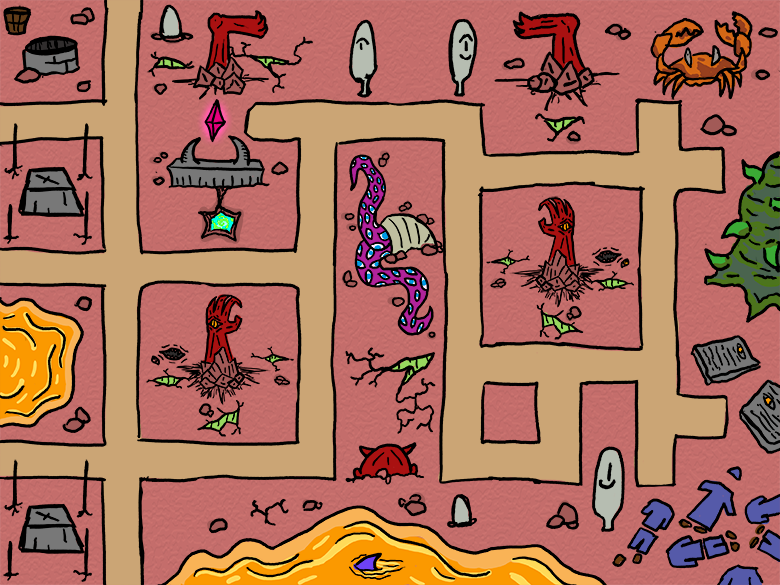
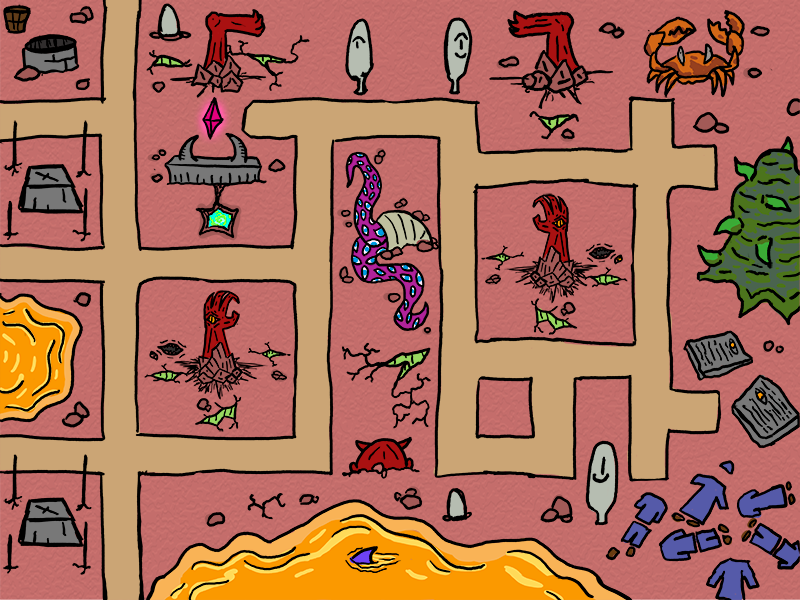
Fixed Demonic Map to match dimensions, fixed multi gum altar issue

diff --git a/js/listMaps.js b/js/listMaps.js
@@ -3,8 +3,7 @@ var mapList =[
 	{"name":"mapPencil","rows":17,"cols":12,"map":[[[0,0,0,0,0,0,0,0,0,0,0,0],[0,0,0,0,0,0,0,0,0,0,0,0],[0,0,0,4,0,0,0,4,0,0,0,0],[0,2,2,2,2,2,2,2,2,2,2,0],[0,2,4,0,0,0,0,0,0,4,2,0],[4,2,0,0,0,0,0,0,0,0,2,0],[0,2,0,0,0,1,0,0,0,0,2,0],[0,2,0,0,0,2,0,0,0,0,2,0],[0,2,0,0,3,2,0,0,0,0,2,0],[0,5,0,0,0,2,0,0,0,0,2,0],[0,0,0,0,0,2,0,0,0,0,2,0],[0,0,0,0,0,2,4,0,0,4,2,0],[0,0,0,0,0,2,2,2,2,2,2,0],[0,0,0,0,0,0,0,0,0,0,0,0],[0,0,0,0,0,0,0,0,0,0,0,0],[0,0,0,0,0,0,0,0,0,0,0,0],[0,0,0,0,0,0,0,0,0,0,0,0]],false,false,false,false,false,false,false]},
 	{"name":"mapDrawnLand","rows":16,"cols":13,"map":[[[0,0,0,0,0,0,0,0,0,0,0,0,0],[0,0,0,0,0,0,0,0,0,0,0,0,0],[0,0,0,0,0,0,0,0,0,0,0,0,0],[0,0,0,0,0,0,1,0,0,0,0,0,0],[0,0,0,0,0,0,2,0,0,0,0,0,0],[0,0,0,0,0,0,2,0,0,0,0,0,0],[0,0,0,0,0,0,2,0,3,2,2,0,0],[0,0,0,0,0,0,2,0,0,0,2,0,0],[0,0,0,2,2,2,2,0,0,0,2,0,0],[0,0,0,2,4,0,4,0,4,4,4,0,0],[0,0,0,2,2,2,2,2,4,4,4,0,0],[0,0,0,0,0,5,0,0,4,4,4,0,0],[0,0,0,0,0,0,0,0,4,4,4,0,0],[0,0,0,0,0,0,0,0,0,0,0,0,0],[0,0,0,0,0,0,0,0,0,0,0,0,0],[0,0,0,0,0,0,0,0,0,0,0,0,0]],false,false,false,false,false,false,false]},	
 	{"name":"bigMapTest","rows":16,"cols":13,"map":[[[0,0,0,0,0,0,0,0,0,0,0,0,0],[0,0,0,0,0,0,0,0,0,0,0,0,0],[0,0,0,0,0,0,0,0,0,0,0,0,0],[0,0,0,0,0,0,1,0,0,0,0,0,0],[0,0,0,0,0,0,2,0,0,0,0,0,0],[0,0,0,0,0,0,2,0,0,0,0,0,0],[0,0,0,0,0,0,2,0,3,2,2,0,0],[0,0,0,0,0,0,2,0,0,0,2,0,0],[0,0,0,2,2,2,2,0,0,0,2,0,0],[0,0,0,2,4,0,4,0,4,4,4,0,0],[0,0,0,2,2,2,2,2,4,4,4,0,0],[0,0,0,0,0,5,0,0,4,4,4,0,0],[0,0,0,0,0,0,0,0,4,4,4,0,0],[0,0,0,0,0,0,0,0,0,0,0,0,0],[0,0,0,0,0,0,0,0,0,0,0,0,0],[0,0,0,0,0,0,0,0,0,0,0,0,0]],false,false,false,false,false,false,false]},	
-	{"name":"Demonic Map","rows":16,"cols":12,"map":[[[0,0,0,0,0,0,0,0,0,0,0,0],[0,0,0,0,0,0,0,0,0,0,0,0],[1,2,2,5,2,2,0,0,0,0,0,0],[0,0,4,0,4,2,4,0,4,0,4,0],[0,0,0,0,0,5,0,0,0,0,0,0],[0,0,5,0,4,2,4,0,4,0,0,0],[0,4,2,2,5,2,0,0,0,0,0,0],[0,0,2,0,0,0,4,0,4,0,0,0],[0,4,5,4,0,0,0,0,0,0,0,0],[0,0,2,2,0,0,0,0,0,0,0,0],[0,0,4,2,4,0,4,0,4,0,4,0],[0,0,0,5,0,0,0,0,0,0,0,0],[0,0,4,2,4,0,4,0,4,0,0,0],[0,0,3,2,0,0,0,0,0,0,0,0],[0,0,0,0,4,0,4,0,0,0,0,0],[0,0,0,0,0,0,0,0,0,0,0,0]],[[0,0,1,0,0,0,0,0,0,0,0,0],[0,0,2,0,0,0,0,0,0,0,0,0],[0,0,2,5,2,2,0,0,0,0,0,0],[0,0,0,0,0,2,0,0,0,0,0,0],[0,0,0,0,0,5,0,0,0,0,0,0],[0,0,5,0,0,2,0,0,0,0,0,0],[0,0,2,2,5,2,0,0,0,0,0,0],[0,0,2,0,0,0,0,0,0,0,0,0],[0,0,5,0,0,0,0,0,0,0,0,0],[0,0,2,2,0,0,0,0,0,0,0,0],[0,0,0,2,0,0,0,0,0,0,0,0],[0,0,0,5,0,0,0,0,0,0,0,0],[0,0,0,2,0,0,0,0,0,0,0,0],[0,0,0,2,0,0,0,0,0,0,0,0],[0,0,0,3,0,0,0,0,0,0,0,0],[0,0,0,0,0,0,0,0,0,0,0,0]],[[0,0,0,0,0,1,0,0,0,0,0,0],[0,0,0,0,0,2,0,0,0,0,0,0],[0,0,0,0,0,2,2,5,2,2,0,0],[0,0,0,0,0,0,0,0,0,2,0,0],[0,0,0,0,0,0,0,0,0,5,0,0],[0,0,0,0,0,0,0,0,0,2,0,0],[0,0,2,2,5,2,2,5,2,2,0,0],[0,0,2,0,0,0,0,0,0,0,0,0],[0,0,5,0,0,0,0,0,0,0,0,0],[0,0,2,2,0,0,0,0,0,0,0,0],[0,0,0,2,0,0,0,0,0,0,0,0],[0,0,0,5,0,0,0,0,0,0,0,0],[0,0,0,2,0,0,0,0,0,0,0,0],[0,0,0,2,2,5,2,2,2,0,0,0],[0,0,0,0,0,0,0,0,3,0,0,0],[0,0,0,0,0,0,0,0,0,0,0,0]],[[0,0,0,0,0,0,0,0,0,1,0,0],[0,0,0,0,0,0,0,0,0,2,0,0],[0,0,0,0,0,0,0,0,0,2,0,0],[0,0,0,0,0,0,0,0,0,2,0,0],[0,0,0,0,0,0,0,0,0,5,0,0],[0,0,0,0,0,0,0,0,0,2,0,0],[0,0,2,2,5,2,2,5,2,2,0,0],[0,0,2,0,0,0,0,0,0,0,0,0],[0,0,5,0,0,0,0,0,0,0,0,0],[0,0,2,2,2,5,2,2,2,2,0,0],[0,0,0,0,0,0,0,5,0,5,0,0],[0,0,0,0,0,0,0,2,2,2,0,0],[0,0,0,0,0,0,0,5,0,0,0,0],[0,0,0,2,2,5,2,2,0,0,0,0],[0,0,0,3,0,0,0,0,0,0,0,0],[0,0,0,0,0,0,0,0,0,0,0,0]],[[0,0,0,0,0,0,0,0,0,0,0,0],[0,0,0,0,0,0,0,0,0,0,0,0],[0,0,0,0,0,0,0,0,0,2,2,1],[0,0,0,0,0,0,0,0,0,2,0,0],[0,0,0,0,0,0,0,0,0,5,0,0],[0,0,0,0,0,0,0,0,0,2,0,0],[0,0,2,2,5,2,2,5,2,2,0,0],[0,0,2,0,0,0,0,0,0,0,0,0],[0,0,5,0,0,0,0,0,0,0,0,0],[0,0,2,2,2,5,2,2,2,2,0,0],[0,0,0,0,0,0,0,5,0,5,0,0],[0,0,0,0,0,0,0,2,2,2,0,0],[0,0,0,0,0,0,0,5,0,0,0,0],[0,0,0,0,0,0,0,2,2,3,0,0],[0,0,0,0,0,0,0,0,0,0,0,0],[0,0,0,0,0,0,0,0,0,0,0,0]],false,false,false]},
-	
+	{"name":"Demonic Map","rows":17,"cols":13,"map":[[[0,0,0,0,0,0,0,0,0,0,0,0,0],[0,0,0,0,0,0,0,0,0,0,0,0,0],[1,2,2,2,2,2,0,0,0,2,2,2,3],[0,0,4,0,4,2,4,0,4,2,4,0,0],[0,0,0,0,0,2,0,0,0,2,0,0,0],[0,0,0,0,4,2,4,0,4,2,0,0,0],[0,4,2,2,2,2,2,2,2,2,0,0,0],[0,0,2,0,0,0,4,0,4,0,0,0,0],[0,4,2,4,0,0,0,0,0,0,0,0,0],[0,0,2,2,2,2,2,2,0,0,0,0,0],[0,0,4,2,4,0,4,2,4,0,4,0,0],[0,0,0,2,0,0,0,2,0,0,0,0,0],[0,0,4,2,4,0,4,2,4,0,0,0,0],[0,0,0,2,2,2,2,2,2,0,0,0,0],[0,0,0,0,4,0,4,0,5,4,0,0,0],[0,0,0,0,0,0,0,0,0,0,0,0,0],[0,0,0,0,0,0,0,0,0,0,0,0,0]],[[0,0,1,0,0,0,0,0,0,3,0,0,0],[0,0,2,0,0,0,0,0,0,2,0,0,0],[0,0,2,2,2,2,0,0,0,2,0,0,0],[0,0,0,0,0,2,0,0,0,2,0,0,0],[0,0,0,0,0,2,0,0,0,2,0,0,0],[0,0,5,0,0,2,0,0,0,2,0,0,0],[0,0,2,2,2,2,2,2,2,2,0,0,0],[0,0,0,0,0,0,0,0,0,0,0,0,0],[0,0,0,0,0,0,0,0,0,0,0,0,0],[0,0,0,0,0,0,0,0,0,0,0,0,0],[0,0,0,0,0,0,0,0,0,0,0,0,0],[0,0,0,0,0,0,0,0,0,0,0,0,0],[0,0,0,0,0,0,0,0,0,0,0,0,0],[0,0,0,0,0,0,0,0,0,0,0,0,0],[0,0,0,0,0,0,0,0,0,0,0,0,0],[0,0,0,0,0,0,0,0,0,0,0,0,0],[0,0,0,0,0,0,0,0,0,0,0,0,0]],[[0,0,0,0,0,0,0,0,0,0,0,0,0],[0,0,0,0,0,0,0,0,0,0,0,0,0],[3,2,2,2,2,2,0,0,0,2,2,2,1],[0,0,0,0,0,2,0,0,0,2,0,0,0],[0,0,0,0,0,2,0,0,0,2,0,0,0],[0,0,0,0,0,2,0,0,0,2,0,0,0],[0,0,2,2,2,2,2,2,2,2,0,0,0],[0,0,2,0,0,0,0,0,0,0,0,0,0],[0,0,2,0,0,0,0,0,0,0,0,0,0],[0,0,2,2,0,0,0,0,0,0,0,0,0],[0,0,0,2,0,0,0,0,0,0,0,0,0],[0,0,0,2,0,0,0,0,0,0,0,0,0],[0,0,0,2,0,0,0,0,0,0,0,0,0],[0,0,5,2,0,0,0,0,0,0,0,0,0],[0,0,0,0,0,0,0,0,0,0,0,0,0],[0,0,0,0,0,0,0,0,0,0,0,0,0],[0,0,0,0,0,0,0,0,0,0,0,0,0]],[[0,0,0,0,0,1,0,0,0,3,0,0,0],[0,0,0,0,0,2,0,0,0,2,0,0,0],[0,0,0,0,0,2,0,0,0,2,0,0,0],[0,0,0,0,0,2,0,0,0,2,0,0,0],[0,0,0,0,0,2,0,0,0,2,0,0,0],[0,0,0,0,0,2,0,0,0,2,0,0,0],[0,0,2,2,2,2,2,2,2,2,0,0,0],[0,0,2,0,0,0,0,0,0,0,0,0,0],[0,0,2,0,0,0,0,0,0,0,0,0,0],[0,0,2,2,2,2,2,2,2,2,0,0,0],[0,0,0,2,0,0,0,2,0,2,0,0,0],[0,0,0,2,0,0,0,2,2,2,0,0,0],[0,0,0,2,0,0,0,2,0,0,0,0,0],[0,0,0,2,2,2,2,2,0,0,0,0,0],[0,0,0,5,0,0,0,0,0,0,0,0,0],[0,0,0,0,0,0,0,0,0,0,0,0,0],[0,0,0,0,0,0,0,0,0,0,0,0,0]],[[0,0,0,0,0,3,0,0,0,1,0,0,0],[0,0,0,0,0,2,0,0,0,2,0,0,0],[0,0,0,0,0,2,0,0,0,2,0,0,0],[0,0,0,0,0,2,0,0,0,2,0,0,0],[0,0,0,0,0,2,0,0,0,2,0,0,0],[0,0,0,0,0,2,0,0,0,2,0,0,0],[0,0,2,2,2,2,2,2,2,2,0,0,0],[0,0,2,0,0,0,0,0,0,0,0,0,0],[0,0,2,0,0,0,0,0,0,0,0,0,0],[0,0,2,2,2,2,2,2,2,2,0,0,0],[0,0,0,0,0,0,0,2,0,2,0,0,0],[0,0,0,0,0,0,0,2,2,2,0,0,0],[0,0,0,0,0,0,0,2,0,0,0,0,0],[0,0,0,0,0,0,0,2,2,5,0,0,0],[0,0,0,0,0,0,0,0,0,0,0,0,0],[0,0,0,0,0,0,0,0,0,0,0,0,0],[0,0,0,0,0,0,0,0,0,0,0,0,0]],[[0,0,3,0,0,1,0,0,0,0,0,0,0],[0,0,2,0,0,2,0,0,0,0,0,0,0],[0,0,2,2,2,2,0,0,0,0,0,0,0],[0,0,0,0,0,2,0,0,0,0,0,0,0],[0,0,0,0,0,2,0,0,0,0,0,0,0],[0,0,0,0,0,2,0,0,0,0,0,0,0],[0,0,2,2,2,2,0,0,0,0,0,0,0],[0,0,2,0,0,0,0,0,0,0,0,0,0],[0,0,2,0,0,0,0,0,0,0,0,0,0],[0,0,2,2,2,2,2,2,2,2,0,0,0],[0,0,0,2,0,0,0,0,0,2,0,0,0],[0,0,0,2,0,0,0,2,2,2,0,0,0],[0,0,0,2,0,0,0,2,0,0,0,0,0],[0,0,0,2,2,5,2,2,0,0,0,0,0],[0,0,0,0,0,0,0,0,0,0,0,0,0],[0,0,0,0,0,0,0,0,0,0,0,0,0],[0,0,0,0,0,0,0,0,0,0,0,0,0]],[[0,0,3,0,0,0,0,0,0,0,0,0,0],[0,0,2,0,0,0,0,0,0,0,0,0,0],[1,2,2,2,2,2,2,2,2,2,0,0,0],[0,0,0,0,0,2,0,0,0,2,0,0,0],[0,0,0,0,0,2,0,0,0,2,0,0,0],[0,0,0,0,0,2,0,0,0,2,0,0,0],[0,0,2,2,2,2,2,2,2,2,0,0,0],[0,0,2,0,0,0,0,0,0,0,0,0,0],[0,0,2,0,0,0,0,0,0,0,0,0,0],[0,0,2,2,2,2,2,2,0,0,0,0,0],[0,0,0,2,0,0,0,2,0,0,0,0,0],[0,0,0,2,0,0,0,2,0,0,0,0,0],[0,0,0,2,0,0,0,2,0,0,0,0,0],[0,0,0,2,2,2,5,2,0,0,0,0,0],[0,0,0,0,0,0,0,0,0,0,0,0,0],[0,0,0,0,0,0,0,0,0,0,0,0,0],[0,0,0,0,0,0,0,0,0,0,0,0,0]],false]},
 	{"name":"toyCarMap","rows":20,"cols":11,"map":[[[0,0,0,0,0,4,0,0,0,0,0],[0,3,2,2,2,2,2,2,2,0,0],[0,0,0,0,4,0,0,4,2,0,0],[0,4,0,0,0,0,0,0,2,0,0],[0,2,2,2,2,2,2,2,2,0,0],[0,2,0,0,4,0,0,0,4,0,0],[4,2,0,0,0,0,0,2,2,2,2],[0,2,0,0,0,0,0,5,0,0,2],[0,2,4,0,0,0,4,2,0,0,2],[0,2,0,0,2,2,2,2,0,0,2],[0,2,0,0,2,4,0,4,0,0,2],[0,2,4,0,2,0,2,2,2,2,2],[4,2,2,2,2,0,2,0,0,0,4],[0,0,0,4,0,0,2,0,0,0,0],[0,0,2,2,2,2,2,0,0,0,0],[0,4,2,0,0,0,0,0,0,0,0],[0,0,2,0,0,0,0,0,0,0,0],[0,0,2,0,0,0,4,0,0,0,0],[0,0,2,2,2,2,2,2,2,2,1],[0,0,4,0,4,0,0,0,0,0,0]],false,false,false,false,false,false,false]},	
 	
 	{"name":"blocksMap","rows":15,"cols":12,"map":[[[0,0,0,0,0,0,0,0,0,0,0,0],[0,0,0,0,0,0,0,1,0,0,0,0],[0,0,0,0,0,0,3,2,0,0,0,0],[0,0,0,0,0,0,0,2,0,0,0,0],[0,0,0,0,0,0,0,2,0,0,0,0],[0,0,0,0,0,0,4,2,0,0,0,0],[0,0,0,0,2,2,2,2,0,0,0,0],[0,0,0,0,2,0,4,0,4,0,0,0],[0,0,2,2,2,2,0,2,2,2,2,5],[0,0,2,4,0,0,4,2,4,0,0,0],[0,0,2,0,0,0,0,2,0,0,0,0],[0,0,2,0,0,0,0,2,0,0,0,0],[0,0,2,4,0,0,4,2,0,0,0,0],[0,0,2,2,2,2,2,2,0,0,0,0],[0,0,0,0,0,0,0,0,0,0,0,0]],false,false,false,false,false,false,false]},
